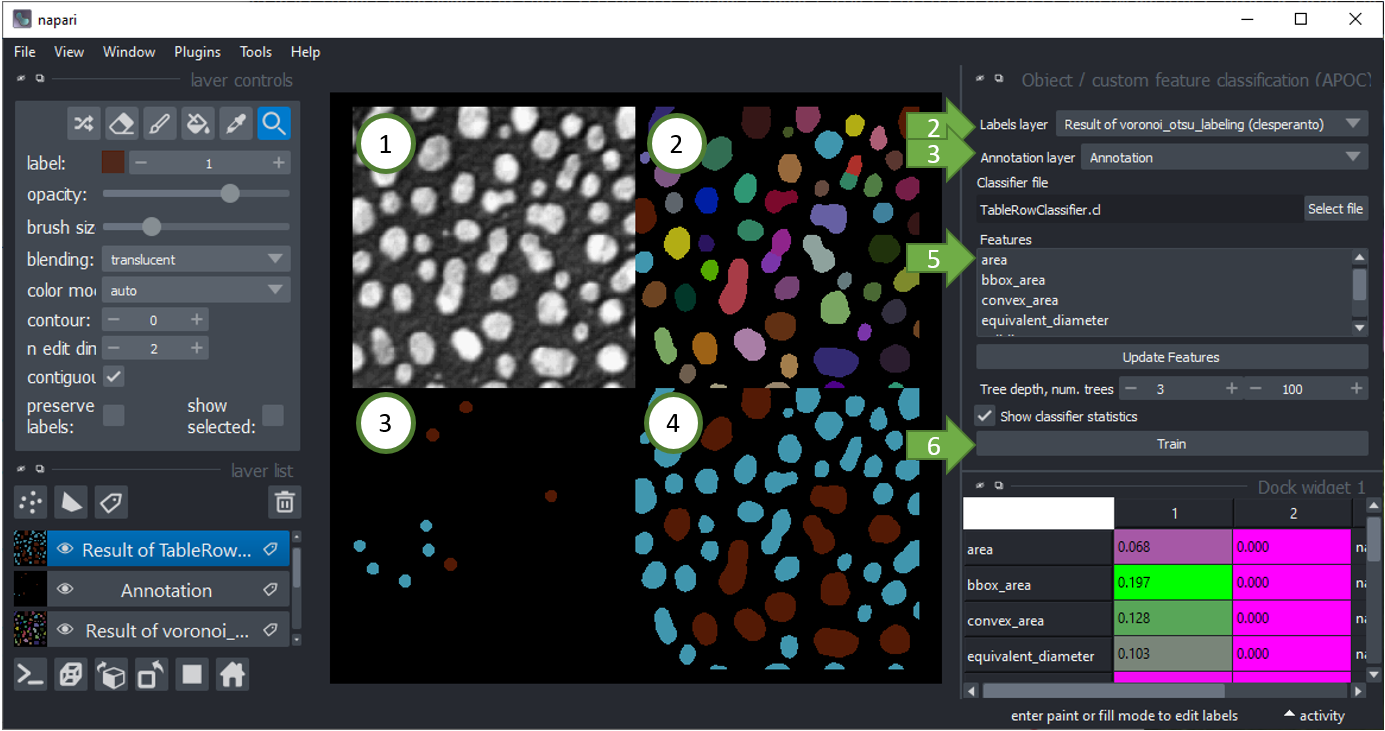
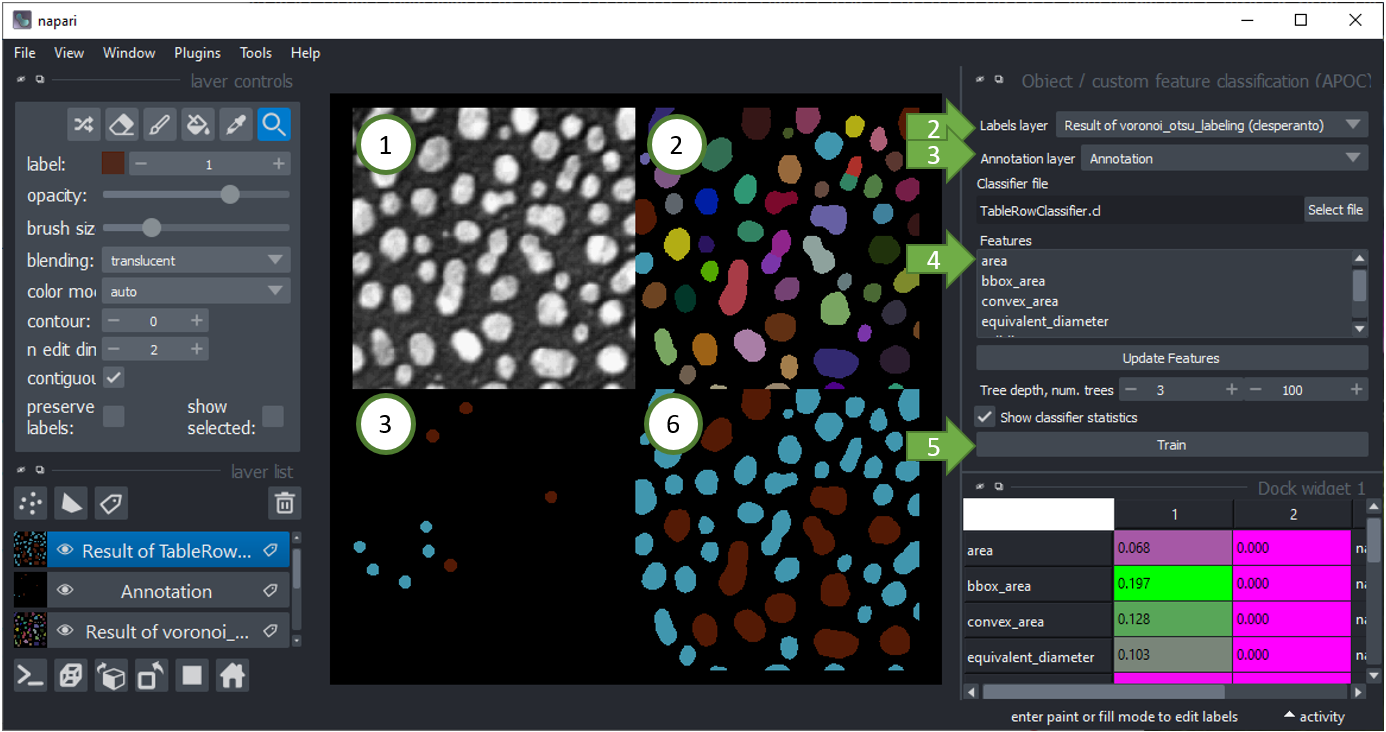
corrected docs/screenshot

diff --git a/README.md b/README.md
@@ -92,7 +92,7 @@ A pre-trained model can later be applied [from scripts as shown in the example n
 There are other napari plugins that allow measurements of label layers such as listed below. 
 After using one of those plugins for extracting features, you can use the menu `Tools > Segmentation post-processing > Object / custom feature classification (APOC)`
 to classify objects in a labels layer according to your custom measured features.
-Select `Labels` (2) and `Annotation` (3) layers as explained above and use the SHIFT and CTRL keys to select multiple features in the `Features` list (4) below and train your classifer (5).
+Select `Labels` (2) and `Annotation` (3) layers as explained above and use the SHIFT and CTRL keys to select multiple features in the `Features` list (4) below and train your classifer (5) to produce a classification label image (6).
 
 ![img.png](images/custom_classifier.png)
 
